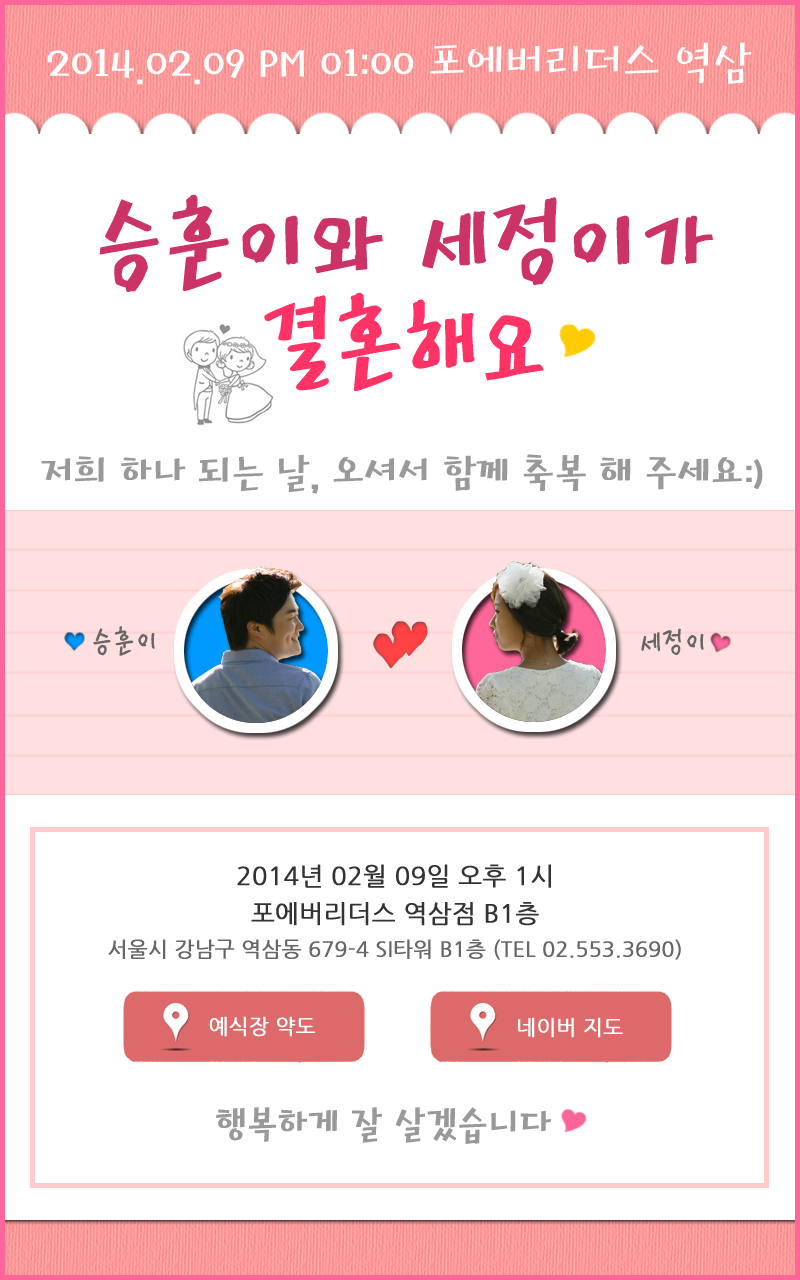
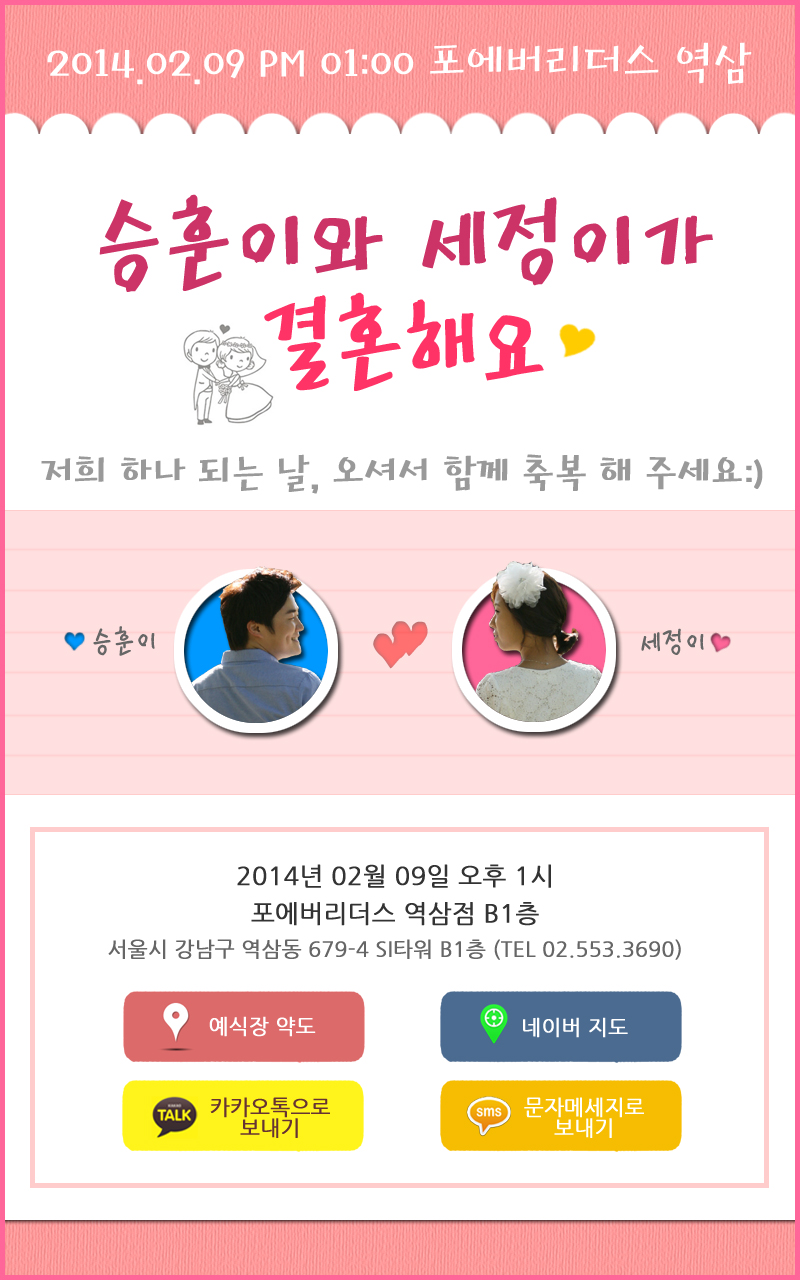
add kakao link

Changed region(s): [[0.5, 0.75, 0.875, 0.9062], [0.1562, 0.8438, 0.4688, 0.9062], [0.4688, 0.4688, 0.5312, 0.5312]]

diff --git a/index.html b/index.html
@@ -16,8 +16,14 @@
 	<div id="wrap">
 		<img src="./images/wedding.jpg" usemap="#wd">
 		<map name="wd">
-			<area shape="rect" coords="125,995,363,1061" href="./map.html" target="blank">
-			<area shape="rect" coords="430,995,670,1060" href="http://map.naver.com/?dlevel=11&pinType=site&pinId=13218475&x=127.0376994&y=37.5015730&enc=b64" target="blank">
+			<area shape="rect" coords="185,577,340,725" href="tel:010-4479-0219">
+			<area shape="rect" coords="460,577,610,725" href="tel:010-6351-2298">
+
+			<area shape="rect" coords="120,990,365,1060" href="./map.html" target="blank">
+			<area shape="rect" coords="440,990,680,1060" href="http://map.naver.com/?dlevel=11&pinType=site&pinId=13218475&x=127.0376994&y=37.5015730&enc=b64" target="blank">
+
+			<area shape="rect" coords="120,1077,365,1150" href="kakaolink://sendurl?msg=승훈♥세정 모바일 청첩장입니다.&url=http://earlbread.github.io/&appid=m.kakao.com&appver=2.0&type=link&appname=카카오&apiver=2.0">
+			<area shape="rect" coords="440,1077,680,1150" href="sms://?body=승훈♥세정%20모바일%20청첩장입니다.%20http://earlbread.github.io/">
 		</map>
 	</div>
 </body>
